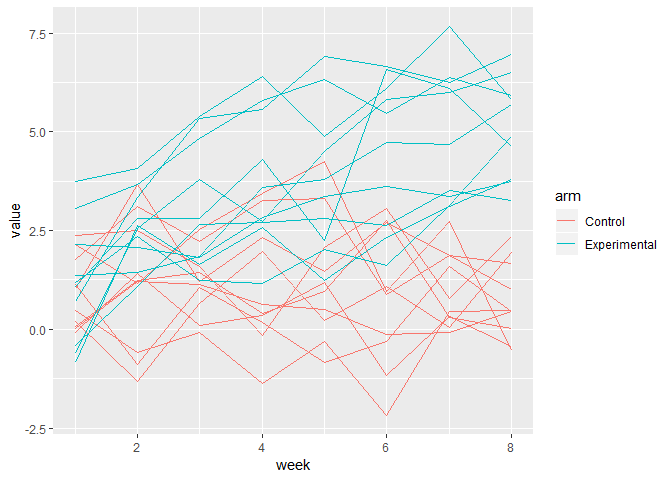
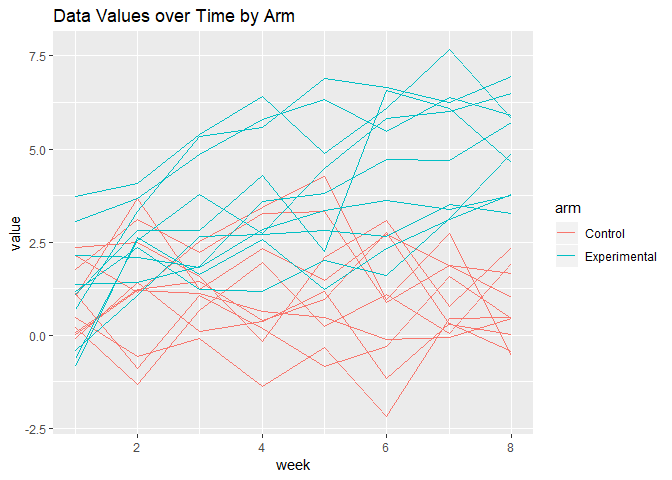
Committing new visuals, code edits, essentially finished

diff --git a/p8105_hw5_ntk2109.md b/p8105_hw5_ntk2109.md
@@ -50,7 +50,7 @@ This data frame contains the relevant longitudinal data tidied, so each row is a
 
 ``` r
 #I am plotting data over time by participant, grouped by arm
-ggplot(data = df, aes(x=week, y = value, group = filenames , color = arm))+ geom_line()
+ggplot(data = df, aes(x=week, y = value, group = filenames , color = arm))+ geom_line() + labs(title = "Data Values over Time by Arm" )
 ```
 
 ![](p8105_hw5_ntk2109_files/figure-markdown_github/plot%20longitudinal-1.png)
@@ -60,7 +60,7 @@ The above visual shows the patterns in data over time by participant, grouped by
 ### Problem Two
 
 ``` r
-#I am reading in the homicide data, and creating the city_state variable.
+#I am reading in the homicide data, and creating the city_state variable, while also removing an erroneous entry.
 Washington_data = read_csv("./data/WashingtonPost/homicide-data.csv")%>%
                   mutate(city_state = paste(city,state, sep = ","))%>%
                   filter(city_state != "Tulsa,AL")
@@ -90,3 +90,33 @@ prop.test(filter(Washington_total, city_state == "Baltimore,MD")$unsolved_n, fil
     ##   estimate conf.low conf.high
     ##      <dbl>    <dbl>     <dbl>
     ## 1    0.646    0.628     0.663
+
+These data provide the proportion of homicides that are unsolved in Baltimore, with a confidence interval.
+
+``` r
+#I am creating a function to read in a city and produce a proportion with CI.
+proportion_function = function(x) {
+  
+  prop.test(filter(Washington_total, city_state == x)$unsolved_n, filter(Washington_total, city_state == x)$n)%>%
+  broom::tidy()%>%
+  select(estimate, conf.low, conf.high)
+  
+  
+}
+#This code will iterate the function over all cities, produce a column with tibbles, and unnest to generate proportions and CIs for every city.
+city_df = tibble(city_list = (c(Washington_total$city_state)),
+map(city_list, proportion_function)) %>%
+unnest()
+```
+
+The above code produces a tidy data frame with the proportion of unsolved homocides for each city, and a confidence interval.
+
+``` r
+#I am ordering the above data by proportion.
+city_df%>%
+mutate(city_list = forcats::fct_reorder(city_list, estimate))%>%
+#I am creating a visual with proportions by location, with error bars, and formatting appropriately.
+ggplot( aes(x = city_list, y = estimate, group = city_list)) + geom_point() +theme(axis.text.x = element_text(angle = 70, hjust = 1)) + geom_errorbar( mapping=aes(x=city_list, ymin=conf.low, ymax=conf.high))+labs(title = "Proportion of Homicides that are Unsolved by Location", x = "Location", y = "Proportion of homicides that are Unsolved")
+```
+
+![](p8105_hw5_ntk2109_files/figure-markdown_github/problem%20two%20visualization-1.png)
